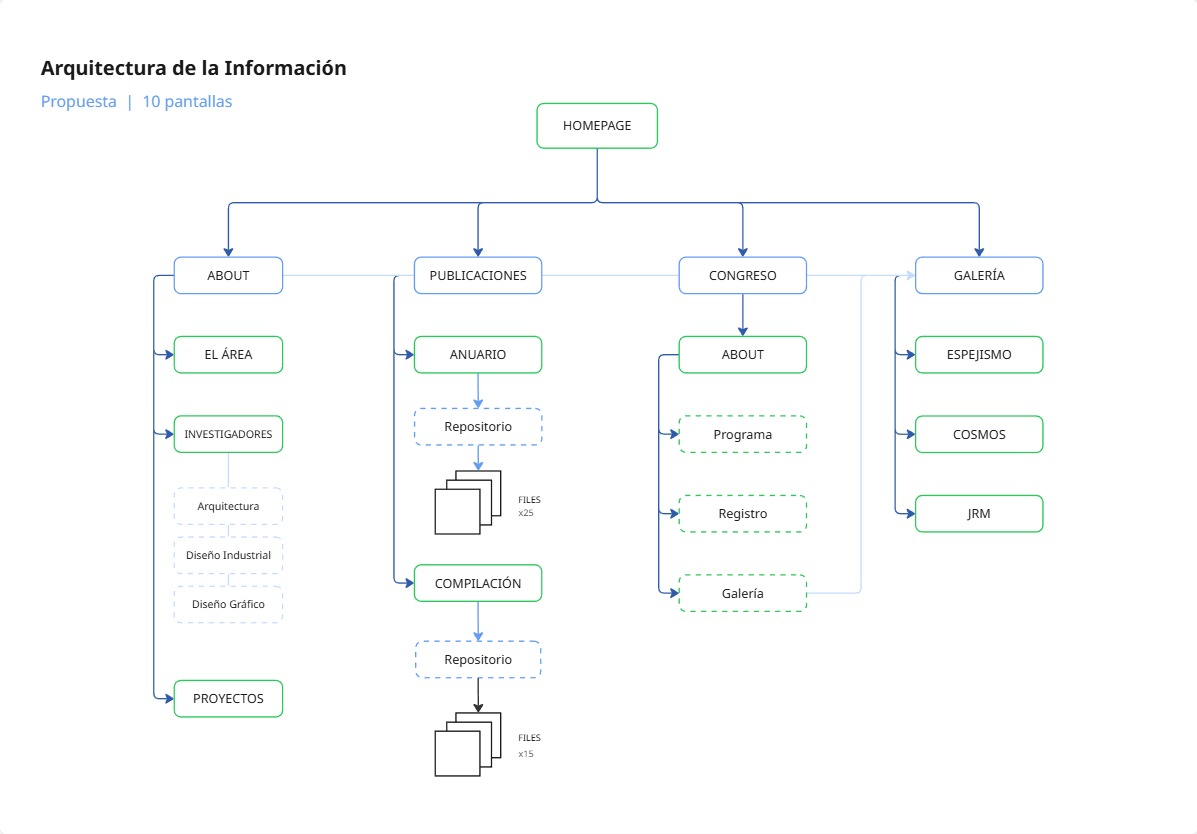
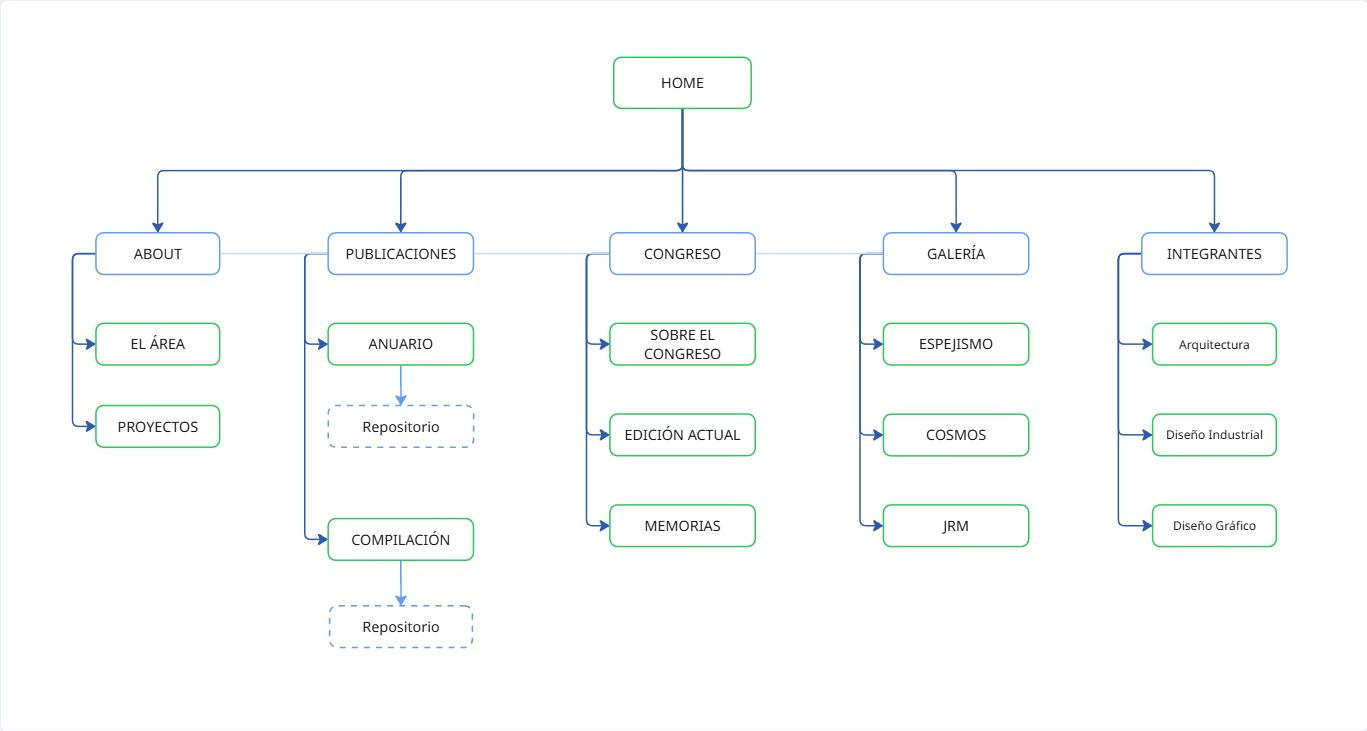
fase de validación de ATD website

diff --git a/atd.html b/atd.html
@@ -103,7 +103,7 @@
 
         <article>
             <section>
-                <h5>User Journey Map</h5>
+                <h5>User Story Map</h5>
             </section>
             <section class="galeria-wrapper">
                 <div class="swiper galeriaSwiper slider-23 cols-2">
@@ -211,17 +211,36 @@
             <section>
                 <h2>Validación</h2>
                 <h5>Pruebas de Usabilidad</h5>
+            </section>
+            <section class="text">                
                 <div class="text-block">
-                    <p>Lorem ipsum dolor sit amet, consectetuer adipiscing elit. Aenean commodo ligula eget dolor. Aenean massa.</p>
+                    <p>Para validar la eficacia de la arquitectura de información y la jerarquía visual, realicé pruebas de usabilidad moderadas con un prototipo de media fidelidad. El objetivo fue observar el comportamiento real de los usuarios —estudiantes y académicos— frente a los flujos críticos del sitio. Se definieron tres tareas de éxito basadas en los objetivos estratégicos del Área:</p>
+                </div>
+                <div>
+                    <p><b>Recuperación de información: </b> Localizar y acceder al 'Anuario 2022' dentro del repositorio digital.</p>
+                    <p><b>Localización de Profesores: </b> Encontrar los datos de contacto directo de un profesor de la licenciatura en Diseño Industrial.</p>
+                    <p><b>Conversión y Registro: </b> Completar el proceso de inscripción para el próximo congreso del colectivo.</p>
+                </div>
+            </section>
+            <section>
+                <div>
+                    <p>Durante las sesiones, utilicé la técnica de <b>'Think Aloud'</b> (pensar en voz alta), lo que permitió identificar no solo dónde daban clic los usuarios, sino qué esperaban encontrar y qué frustraciones experimentaban en tiempo real.</p>
                 </div>
             </section>
         </article>
         
         <article>
             <section>
-                <h5>Iteración</h5>
+                <h5>Hallazgos Clave e Iteración de Diseño</h5>
+            </section>
+            <section class="text">
                 <div class="text-block">
-                    <p>Lorem ipsum dolor sit amet, consectetuer adipiscing elit. Aenean commodo ligula eget dolor. Aenean massa.</p>
+                    <p>Los resultados de las pruebas fueron reveladores y sirvieron como hoja de ruta para la evolución del prototipo hacia la alta fidelidad. Aunque las tareas se completaron satisfactoriamente, identifiqué tres áreas de oportunidad críticas que fueron resueltas en la iteración final:</p>
+                </div>
+                <div>
+                    <p><b>Desglose de Contenido Académico:</b> Tras observar que los usuarios deseaban una consulta más granular de las publicaciones, rediseñé la vista del repositorio. Pasamos de una descarga de archivo único a un índice interactivo que permite visualizar y consultar capítulos o artículos individuales, mejorando la experiencia de lectura científica.</p>
+                    <p><b>Optimización de la Navegación (Directorio):</b>El feedback de los usuarios confirmó una fricción en el flujo de contacto. Como respuesta, elevé el 'Directorio de Investigadores' al primer nivel del menú global, reduciendo la carga cognitiva y el número de clics necesarios para llegar a los perfiles docentes.</p>
+                    <p><b>Mejora en la Experiencia del Evento (Congreso): </b>Si bien el registro fue exitoso, los usuarios demandaban mayor claridad informativa y utilidad funcional. Iteré el diseño para presentar un programa del congreso con jerarquía visual reforzada.</p>
                 </div>
             </section>
         </article>
@@ -245,6 +264,8 @@
         <article>
             <section>
                 <h2>Website</h2>
+            </section>
+            <section class="text">
                 <div class="text-block">
                     <p>Para conocer el sitio web completo visita:</p>
                 </div>

diff --git a/style-2.css b/style-2.css
@@ -85,7 +85,7 @@ p {
     font-size: 18px;
     color: var(--four);
     line-height: 1.4;
-    margin-top: 10px;
+    margin-bottom: 15px;
 }
 .description {
     font-size: 14px;
